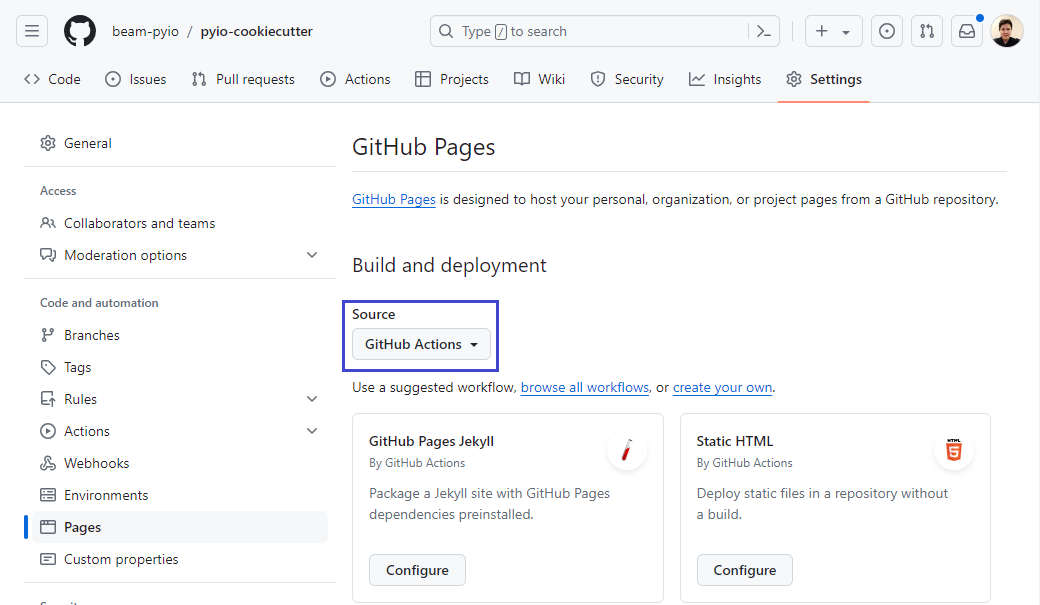
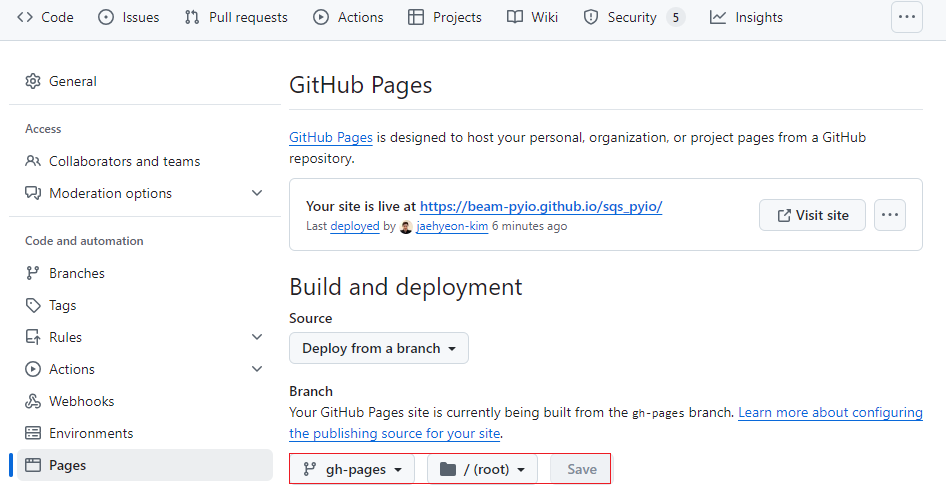
update sphinx doc config

diff --git a/{{ cookiecutter.__package_slug }}/docs/conf.py b/{{ cookiecutter.__package_slug }}/docs/conf.py
@@ -4,6 +4,17 @@
 # list see the documentation:
 # https://www.sphinx-doc.org/en/master/usage/configuration.html
 
+# -- Path setup --------------------------------------------------------------
+
+# If extensions (or modules to document with autodoc) are in another directory,
+# add these directories to sys.path here. If the directory is relative to the
+# documentation root, use os.path.abspath to make it absolute, like shown here.
+#
+import os
+import sys
+
+sys.path.insert(0, os.path.abspath("../"))
+
 # -- Project information -----------------------------------------------------
 
 project = u"{{ cookiecutter.__package_slug }}"
@@ -16,7 +27,19 @@ author = u"{{ cookiecutter.author_name }}"
 # extensions coming with Sphinx (named 'sphinx.ext.*') or your custom
 # ones.
 extensions = [
-    "myst_nb",
+    "sphinx.ext.autodoc",
+    "sphinx.ext.doctest",
+    "sphinx.ext.todo",
+    "sphinx.ext.coverage",
+    "sphinx.ext.mathjax",
+    "sphinx.ext.napoleon",
+    "sphinx.ext.viewcode",
+    "sphinx.ext.githubpages",
+    "sphinx_markdown_builder",
+    "sphinx_rtd_theme",
+    "myst_parser",
+    "nbsphinx",
+    "nbsphinx_link",
     "autoapi.extension",
     "sphinx.ext.napoleon",
     "sphinx.ext.viewcode",
@@ -27,6 +50,7 @@ autoapi_dirs = ["../src"]
 # directories to ignore when looking for source files.
 # This pattern also affects html_static_path and html_extra_path.
 exclude_patterns = ["_build", "Thumbs.db", ".DS_Store"]
+source_suffix = [".rst", ".md"]
 
 # -- Options for HTML output -------------------------------------------------
 

diff --git a/docs/source/user-guide.md b/docs/source/user-guide.md
@@ -85,13 +85,14 @@ Create an empty public repository on GitHub. The repository name should match to
 :align: center
 ```
 
-As the document is published via GitHub Workflows (`.github/workflows/doc.yml`), GitHub Pages should be enabled where the build and deploy source is set to *GitHub Actions*.
+As the document is published via GitHub Workflows (`.github/workflows/doc.yml`), GitHub Pages should be enabled where it is configured to be built from the `gh-pages` branch. Note that the dedicated branch does not exist by default, and it is not possible to enable GitHub Pages until the branch is created. Note that it can be created either manually or by the `deploy_workflow` job of the `doc` workflow.
 
 ```{image} _static/github-pages.png
 :alt: github-pages-config
 :width: 600px
 :align: center
 ```
+
 
 ## Continuous integration and continuous deployment
 
@@ -104,8 +105,8 @@ There are three workflows in the `.github/workflows` folder.
 └── test.yml
 ```
 
-The *test* workflow performs unit testing with all the supported Python versions, and it gets triggered on a push or pull request event to the *main* branch.
+The *test* workflow performs unit testing with all the supported Python versions, and it gets triggered on a pull request event to the *main* branch.
 
-The *doc* workflow gets triggered when the *test* workflow completes. The package document is built and published to GitHub Pages only if the upstream workflow is succeeded.
+The *doc* workflow gets triggered when there is a push event to the *main* branch. The package document is built and published on GitHub Pages.
 
 The *release* workflow is for creating a release and publish it to the Python Package Index (PyPI). It gets triggered when a tag whose name begins with *v* is pushed. Currently, only a draft release is created, and it is expected to finalize manually. Note the API token that is used to publish a package is stored in the organization secrets.
